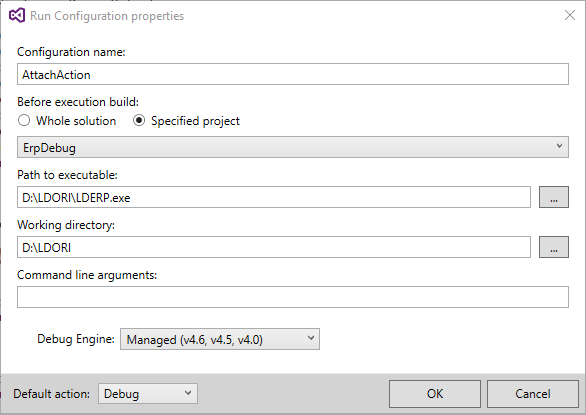
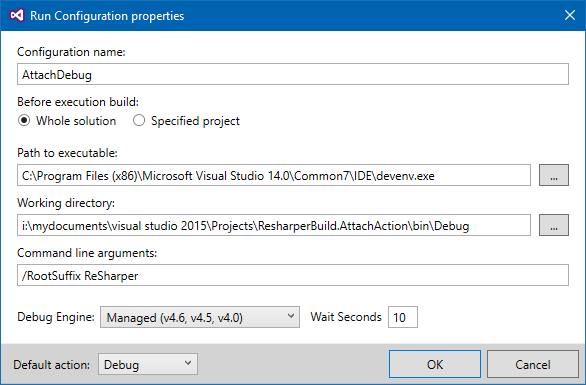
Added option to set the seconds waiting before attach to process

Changed region(s): [[0.0, 0.0, 1.0, 0.7481], [0.0, 0.7792, 1.0, 1.0], [0.0, 0.9351, 0.1536, 0.9662]]

diff --git a/ResharperBuild.AttachAction/AttachConfigView.xaml b/ResharperBuild.AttachAction/AttachConfigView.xaml
@@ -41,13 +41,19 @@
     <Label Content="Command line _arguments:" Target="{Binding ElementName=CommandLine}"/>
     <TextBox GotKeyboardFocus="SelectOnKeyboardFocus" x:Name="CommandLine" Padding="2"
            Text="{Binding Arguments.Value, Mode=TwoWay}"/>
-    <StackPanel Orientation="Horizontal" Margin="0 20 0 8">
-        <StackPanel Orientation="Horizontal" Margin="20 0 0 0"
-                Visibility="{Binding SelectedClrVersionVisibility.Value}">
+    <StackPanel Orientation="Horizontal" Margin="0 20 0 0">
+        <StackPanel Orientation="Horizontal" Margin="0 0 0 0">
             <Label Content="Debu_g Engine:" Padding="0 2 6 0" Target="{Binding ElementName=RuntimeSelection}"/>
             <ComboBox x:Name="RuntimeSelection" VerticalAlignment="Center" Width="200"
                 ItemsSource="{Binding ClrVersions}"
                 SelectedItem="{Binding SelectedClrVersion.Value, UpdateSourceTrigger=PropertyChanged}"/>
+        </StackPanel>
+        <StackPanel Orientation="Horizontal" Margin="10 0 0 0">
+            <Label Content="Wait _Seconds" Padding="0 2 6 0" Target="{Binding ElementName=WaitSeconds}" />
+            <TextBox x:Name="WaitSeconds" Width="30" GotKeyboardFocus="SelectOnKeyboardFocus" Padding="2" Text="{Binding WaitingSeconds.Value, Mode=TwoWay}" />
+                <Image Height="16" Width="16" Margin="8 0 0 0" ToolTip="{Binding WaitingSecondsError.Value}"
+           Visibility="{Binding WaitingSecondsErrorVisibility.Value}"
+           Source="{jui:ThemedIcon TypeofIcon={x:Type resources:CommonThemedIcons+Error}}"/>
         </StackPanel>
     </StackPanel>
 </StackPanel>

diff --git a/ResharperBuild.AttachAction/AttachConfigAutomation.cs b/ResharperBuild.AttachAction/AttachConfigAutomation.cs
@@ -35,7 +35,11 @@ namespace ResharperBuild.AttachAction
 
         public IProperty<string> SelectedClrVersion { get; set; }
 
-        public IProperty<Visibility> SelectedClrVersionVisibility { get; private set; }
+        public IProperty<string> WaitingSeconds { get; set; }
+
+        public Property<string> WaitingSecondsError { get; private set; }
+
+        public IProperty<Visibility> WaitingSecondsErrorVisibility { get; private set; }
 
         public Property<string> DirectoryError { get; private set; }
 
@@ -54,8 +58,10 @@ namespace ResharperBuild.AttachAction
         public AttachConfigAutomation(Lifetime lifetime, AttachConfig runConfig, ISolution solution) {
             _myRunConfig = runConfig;
             _mySolution = solution;
-            Path = new Property<string>(lifetime, "Path",SolutionRelativePathUtils.EnsureIsAbsoluteWithSolution(runConfig.ExePath, solution).FullPath);
-            WorkingDirectory =new Property<string>(lifetime, "WorkingDirectory",SolutionRelativePathUtils.EnsureIsAbsoluteWithSolution(runConfig.WorkingDirectory, solution).FullPath);
+            Path = new Property<string>(lifetime, "Path",
+                SolutionRelativePathUtils.EnsureIsAbsoluteWithSolution(runConfig.ExePath, solution).FullPath);
+            WorkingDirectory = new Property<string>(lifetime, "WorkingDirectory",
+                SolutionRelativePathUtils.EnsureIsAbsoluteWithSolution(runConfig.WorkingDirectory, solution).FullPath);
             Arguments = new Property<string>(lifetime, "Arguments", runConfig.Arguments);
             var listEvents2 = new ListEvents<string>(lifetime, "ClrVersions");
             var dte = Shell.Instance.GetComponent<DTE>() as DTE2;
@@ -67,37 +73,61 @@ namespace ResharperBuild.AttachAction
                 }
             }
 
-            ClrVersions = (ListEvents<string>) listEvents2.OrderByLive(lifetime, StringComparer.Create(CultureInfo.CurrentCulture, true));
+            ClrVersions =
+                (ListEvents<string>)
+                listEvents2.OrderByLive(lifetime, StringComparer.Create(CultureInfo.CurrentCulture, true));
             SelectedClrVersion = new Property<string>(lifetime, "SelectedClrVersion", runConfig.ClrVersion);
+            WaitingSeconds = new Property<string>(lifetime, "WaitingSeconds", runConfig.WaitSeconds.ToString());
             IsValid = new Property<bool>(lifetime, "IsValid");
             SelectPathCommand = new DelegateCommand(SelectPathExecute);
             SelectDirectoryCommand = new DelegateCommand(SelectDirectoryExecute);
-            PathError = new Property<string>(lifetime, "NameError", null,true);
+            PathError = new Property<string>(lifetime, "NameError", null, true);
             PathErrorVisibility = new Property<Visibility>(lifetime, "NameErrorVisibility");
-            PathError.FlowInto(lifetime, PathErrorVisibility,s => !s.IsNullOrWhitespace() ? Visibility.Visible : Visibility.Collapsed);
+            PathError.FlowInto(lifetime, PathErrorVisibility,
+                s => !s.IsNullOrWhitespace() ? Visibility.Visible : Visibility.Collapsed);
             DirectoryErrorVisibility = new Property<Visibility>(lifetime, "DirectoryErrorVisibility");
-            DirectoryError = new Property<string>(lifetime, "DirectoryError", null,true);
-            DirectoryError.FlowInto(lifetime,DirectoryErrorVisibility,s => !s.IsNullOrWhitespace() ? Visibility.Visible : Visibility.Collapsed);
-            PropertyBinding.Create2(lifetime, DirectoryError,PathError, IsValid,(s, s1) => {
-                if (s.IsNullOrWhitespace())
-                    return s1.IsNullOrWhitespace();
-                return false;
+            DirectoryError = new Property<string>(lifetime, "DirectoryError", null, true);
+            DirectoryError.FlowInto(lifetime, DirectoryErrorVisibility,
+                s => !s.IsNullOrWhitespace() ? Visibility.Visible : Visibility.Collapsed);
+            WaitingSecondsErrorVisibility = new Property<Visibility>(lifetime, "WaitingSecondsErrorVisibility");
+            WaitingSecondsError = new Property<string>(lifetime, "WaitingSecondsError", null, true);
+            int waitSeconds;
+            WaitingSecondsError.FlowInto(lifetime, WaitingSecondsErrorVisibility,
+                s => !s.IsNullOrWhitespace() ? Visibility.Visible : Visibility.Collapsed);
+
+            PropertyBinding.Create3(lifetime, DirectoryError, PathError, WaitingSecondsError, IsValid, (s, s1, s2) => {
+                var executableError = s.IsNullOrWhitespace() && s1.IsNullOrWhitespace();
+                return executableError && s2.IsNullOrWhitespace();
             });
+
             Path.Change.Advise_HasNew(lifetime, args => {
-                string str = args.New;if (str.IsNullOrEmpty())PathError.Value = "Path cannot be empty";
+                string str = args.New;
+                if (str.IsNullOrEmpty()) PathError.Value = "Path cannot be empty";
                 else if (FileSystemPath.TryParse(str).IsEmpty)
                     PathError.Value = "Invalid path";
                 else
                     PathError.Value = null;
             });
-            WorkingDirectory.Change.Advise_HasNew(lifetime,
-                args => {
+            WorkingDirectory.Change.Advise_HasNew(lifetime, args => {
                     string str = args.New;
                     if (!str.IsNullOrEmpty() && FileSystemPath.TryParse(str).IsEmpty)
                         DirectoryError.Value = "Invalid path";
                     else
                         DirectoryError.Value = null;
                 });
+
+            WaitingSeconds.Change.Advise_HasNew(lifetime, args => {
+                var str = args.New;
+                if (!int.TryParse(str, out waitSeconds)) {
+                    WaitingSecondsError.Value = "Has to be a number (int)";
+                }
+                else if (waitSeconds < 0) {
+                    WaitingSecondsError.Value = "Has to be non-negative number";
+                }
+                else {
+                    WaitingSecondsError.Value = null;
+                }
+            });
         }
 
         public ListEvents<string> ClrVersions { get; set; }
@@ -139,6 +169,7 @@ namespace ResharperBuild.AttachAction
                 SolutionRelativePathUtils.TryMakeRelativeToSolution(WorkingDirectory.Value.Trim(), _mySolution);
             config.Arguments = Arguments.Value;
             config.ClrVersion = SelectedClrVersion.Value;
+            config.WaitSeconds = int.Parse(WaitingSeconds.Value);
         }
     }
 }

diff --git a/ResharperBuild.AttachAction/AttachConfig.cs b/ResharperBuild.AttachAction/AttachConfig.cs
@@ -8,11 +8,13 @@ using JetBrains.Application.Settings;
 using JetBrains.DataFlow;
 using JetBrains.IDE.RunConfig;
 using JetBrains.ProjectModel;
+using JetBrains.Threading;
 using JetBrains.UI.Icons;
 using JetBrains.Util;
 using JetBrains.VsIntegration.IDE.RunConfig;
 using JetBrains.VsIntegration.Resources;
 using DTEProcess = EnvDTE80.Process2;
+using Process = System.Diagnostics.Process;
 
 namespace ResharperBuild.AttachAction
 {
@@ -22,6 +24,7 @@ namespace ResharperBuild.AttachAction
         public string WorkingDirectory { get; set; }
         public string Arguments { get; set; }
         public string ClrVersion { get; set; }
+        public int WaitSeconds { get; set; }
 
         private readonly DTE2 _dte;
 
@@ -31,6 +34,7 @@ namespace ResharperBuild.AttachAction
             WorkingDirectory = string.Empty;
             Arguments = string.Empty;
             ClrVersion = string.Empty;
+            WaitSeconds = 0;
         }
 
         public override void Execute(RunConfigContext context) {
@@ -45,8 +49,12 @@ namespace ResharperBuild.AttachAction
 
                 var process = new Process {StartInfo = processStartInfo};
                 process.Start();
-                process.WaitForInputIdle(5000);
 
+                if (WaitSeconds > 0) {
+                    JetDispatcher.RunOrSleep(new TimeSpan(0, 0, WaitSeconds));
+                    //JetDispatcher.RunOrSleep(() => process.HasExited, new TimeSpan(0, 0, WaitSeconds));
+                }
+                
                 var dbg2 = _dte.Debugger as Debugger2;
                 if (dbg2 == null) return;
                 var engines = dbg2.Transports.Item("default").Engines;
@@ -93,6 +101,7 @@ namespace ResharperBuild.AttachAction
             WorkingDirectory = key.WorkingDirectory;
             Arguments = key.Arguments;
             ClrVersion = key.ClrVersion;
+            WaitSeconds = key.WaitSeconds;
             return true;
         }
 
@@ -103,6 +112,7 @@ namespace ResharperBuild.AttachAction
                 mapping);
             store.SetIfChanged((Expression<Func<AttachSettings, string>>) (s => s.Arguments), Arguments, mapping);
             store.SetIfChanged((Expression<Func<AttachSettings, string>>) (s => s.ClrVersion), ClrVersion, mapping);
+            store.SetIfChanged((Expression<Func<AttachSettings, int>>) (s => s.WaitSeconds), WaitSeconds, mapping);
         }
     }
 }

diff --git a/ResharperBuild.AttachAction/Properties/AssemblyInfo.cs b/ResharperBuild.AttachAction/Properties/AssemblyInfo.cs
@@ -1,5 +1,4 @@
 using System.Reflection;
-using System.Runtime.CompilerServices;
 using System.Runtime.InteropServices;
 
 // General Information about an assembly is controlled through the following 
@@ -32,5 +31,5 @@ using System.Runtime.InteropServices;
 // You can specify all the values or you can default the Build and Revision Numbers 
 // by using the '*' as shown below:
 // [assembly: AssemblyVersion("1.0.*")]
-[assembly: AssemblyVersion("1.0.0.0")]
-[assembly: AssemblyFileVersion("1.0.0.0")]
+[assembly: AssemblyVersion("1.0.1.0")]
+[assembly: AssemblyFileVersion("1.0.1.0")]

diff --git a/ResharperBuild.AttachAction/AttachSettings.cs b/ResharperBuild.AttachAction/AttachSettings.cs
@@ -14,5 +14,7 @@ namespace ResharperBuild.AttachAction
         public string Arguments;
         [SettingsEntry(null, "Clr version")]
         public string ClrVersion { get; set; }
+        [SettingsEntry(null, "Wait Seconds")]
+        public int WaitSeconds { get; set; }
     }
 }
